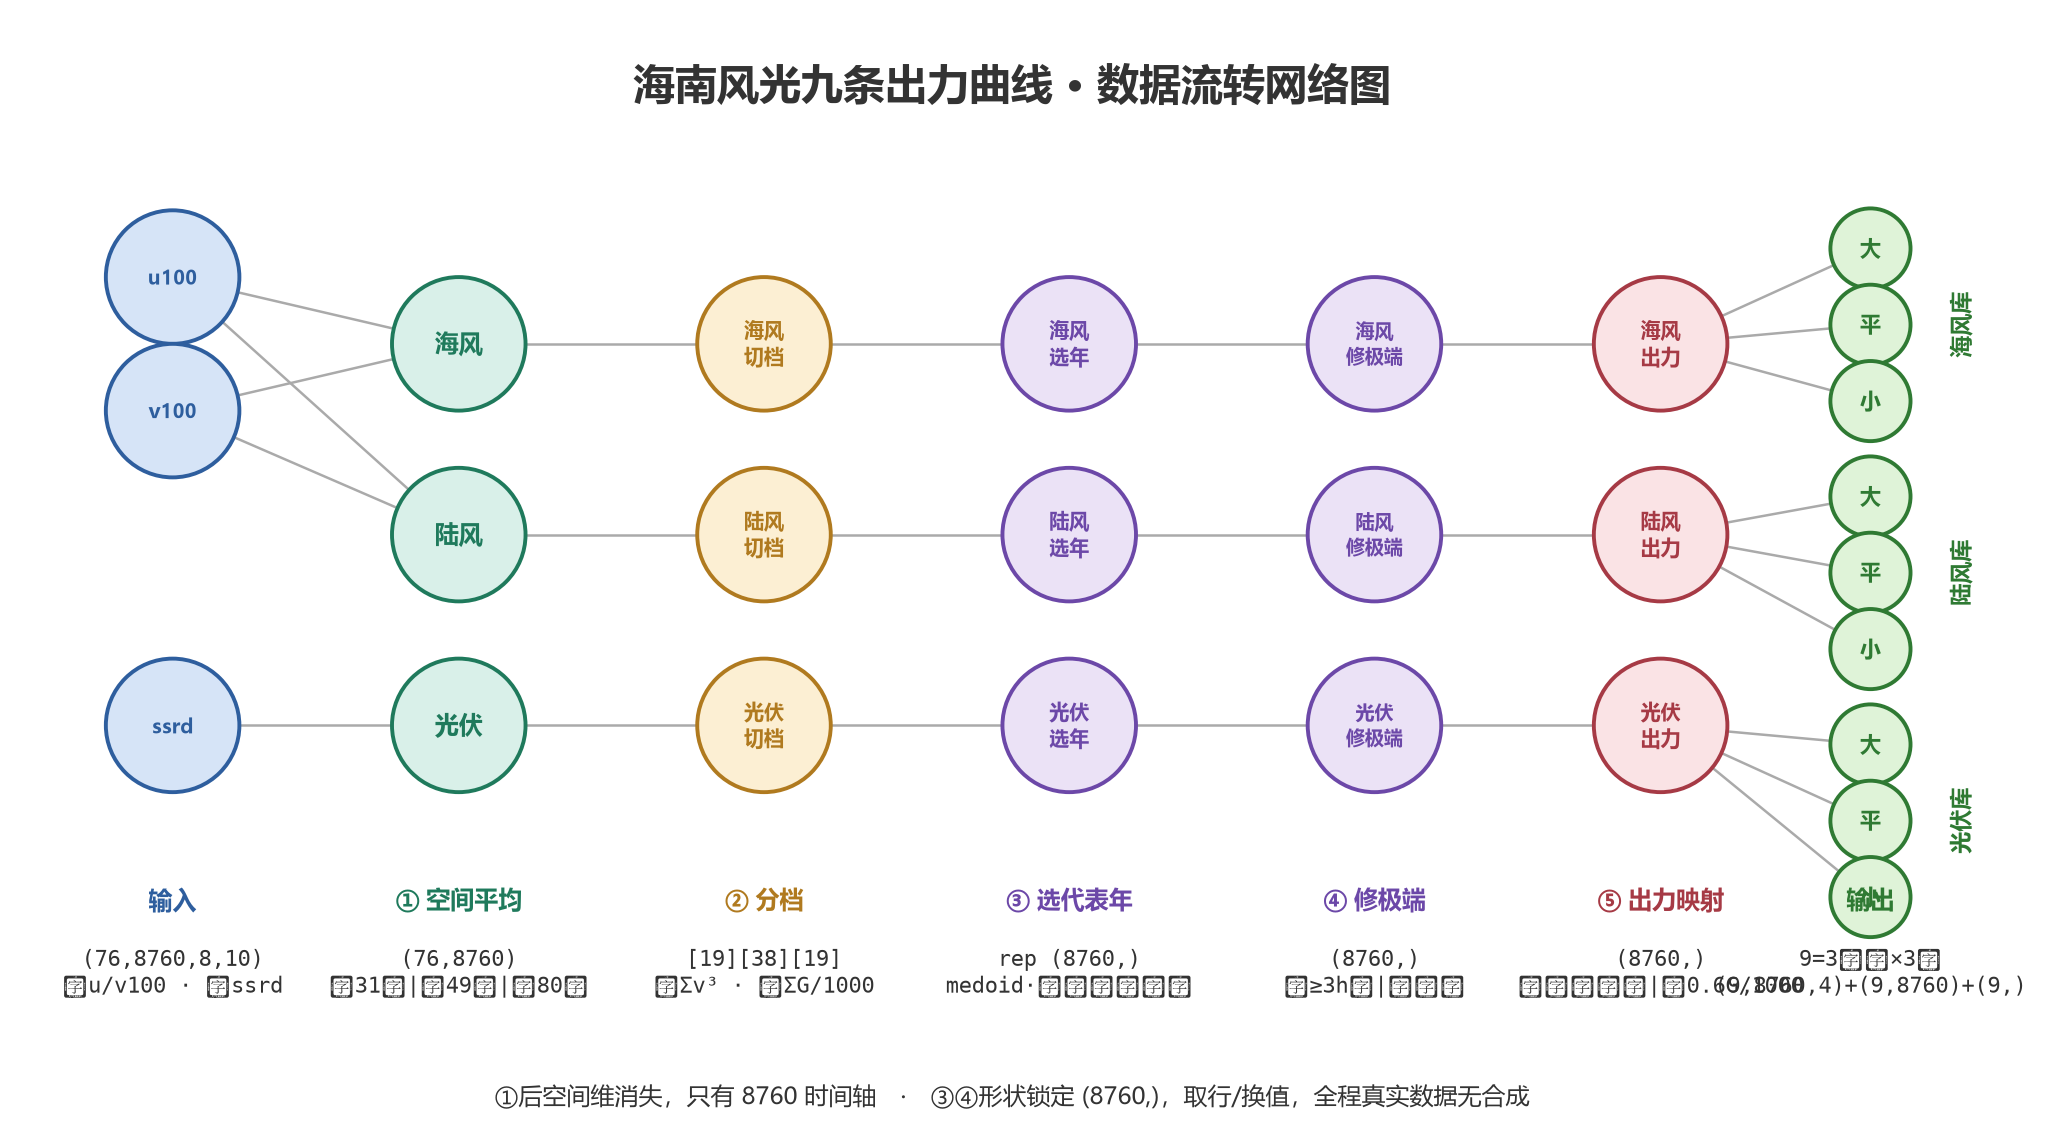
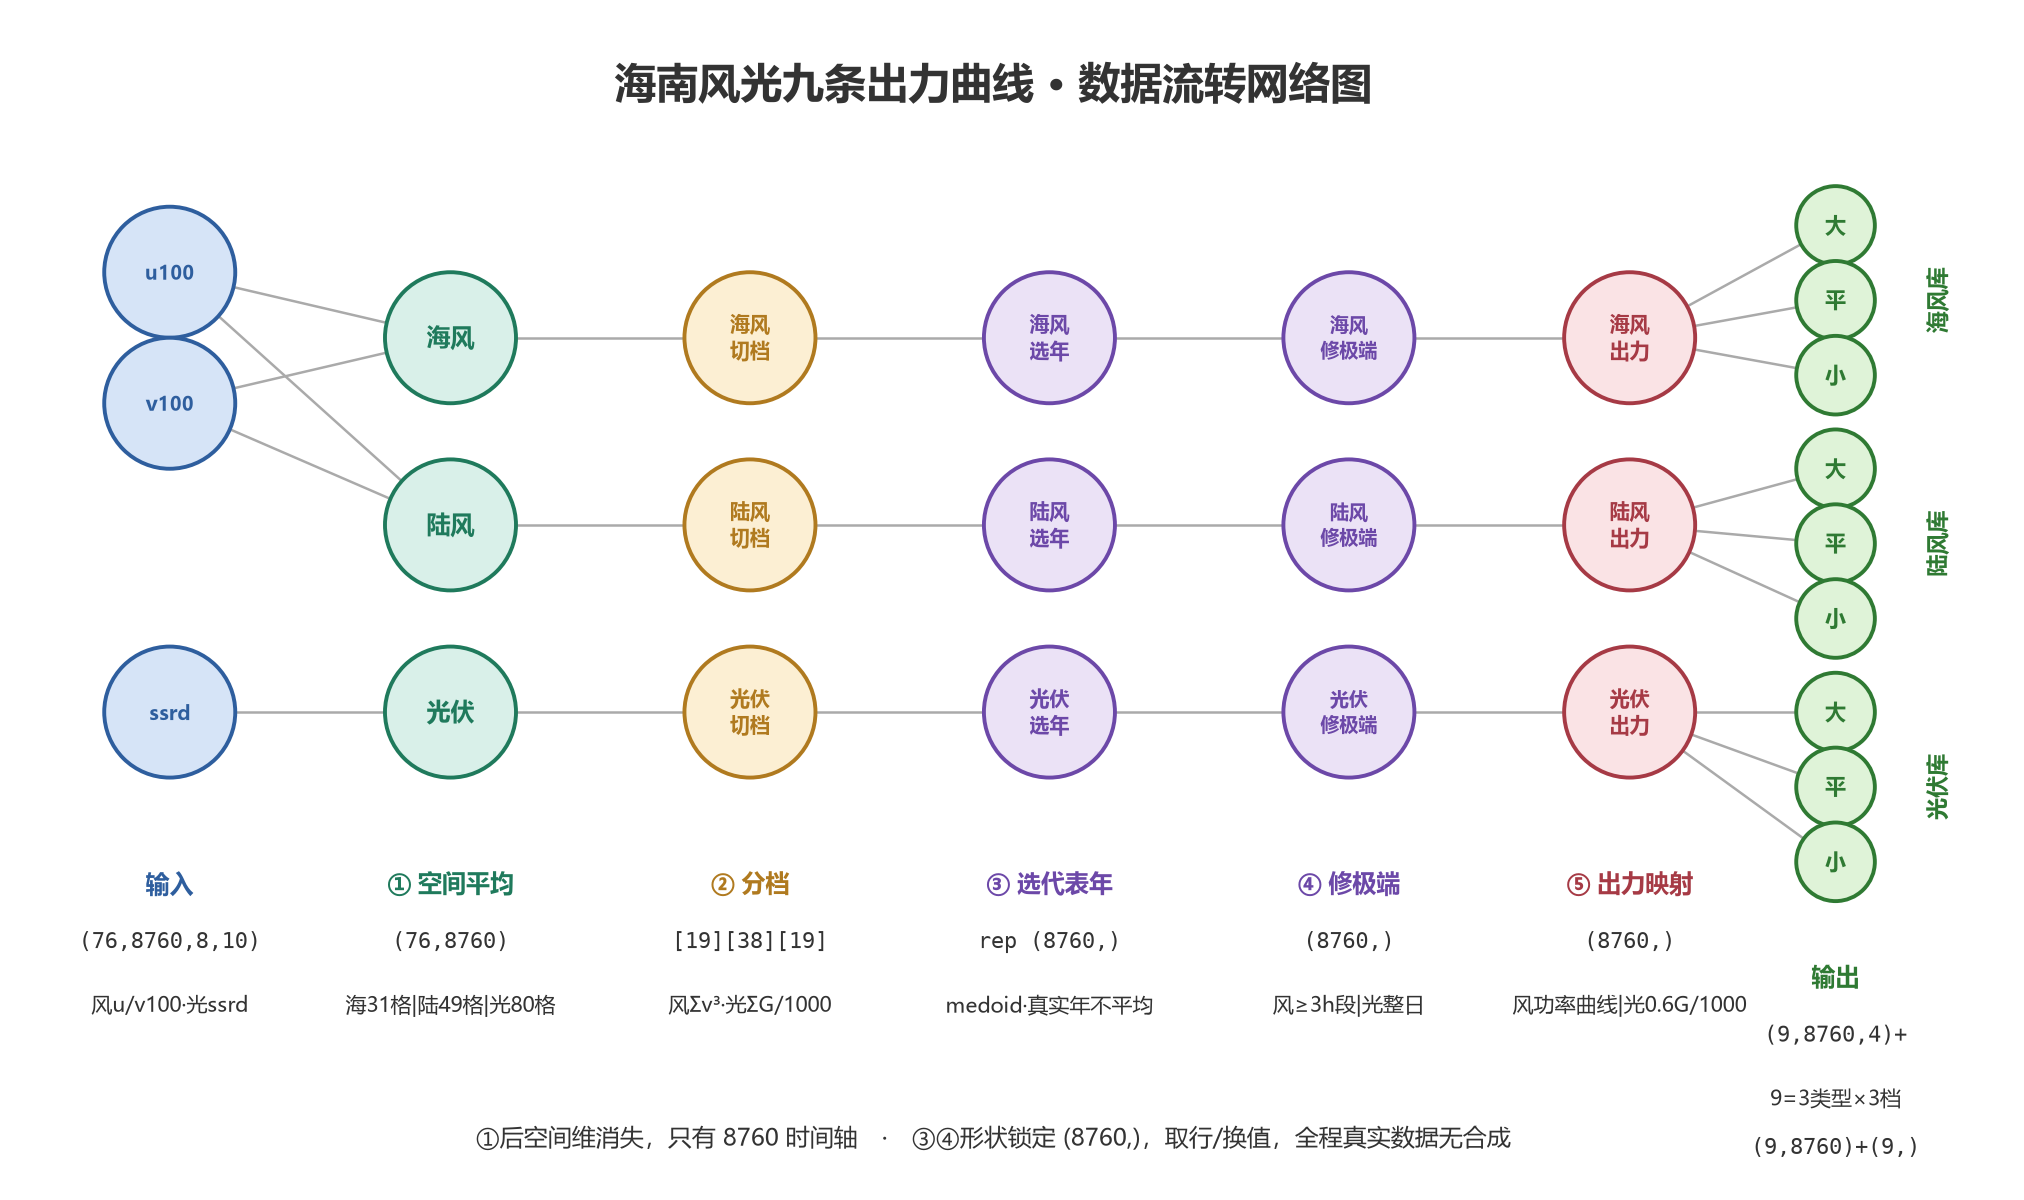
fix: 修复流程图缺字与重叠；新增 ALGO_DESIGN.md 固化流程图+维度流转描述
等宽字体不含 CJK 导致注释缺字，拆分纯ASCII形状行；输出列说明下移避开圆圈。

diff --git a/make_dim_flow_figure.py b/make_dim_flow_figure.py
@@ -1,12 +1,14 @@
 #!/usr/bin/env python
 # -*- coding: utf-8 -*-
 """
-@Time    : 2026/10/22 16:40
+@Time    : 2026/10/22 17:20
 @Author  : weiyutao
 @File    : make_dim_flow_figure.py
 
 NN 结构图风格的维度流转图（参考 算法处理流程_单页.pptx 第2页）：
-每列一层操作，节点=圆圈，连线=数据流，列下标注输出形状。覆盖 算法流程图.png。
+列=操作层，节点=圆圈，连线=数据流，列下标注 层名/输出形状/注释。
+中文字符一律雅黑（等宽字体缺 CJK 字形会渲染为空），形状行纯 ASCII 才用等宽。
+覆盖 算法流程图.png。
 """
 from pathlib import Path
 
@@ -16,21 +18,21 @@ from matplotlib.patches import Circle
 plt.rcParams['font.family'] = ['Microsoft YaHei', 'SimHei']
 plt.rcParams['axes.unicode_minus'] = False
 
-C_IN = ('#D6E4F7', '#2E5E9E')     # 输入 蓝
-C_S1 = ('#D9F0E9', '#1F7A5C')     # 空间平均 青
-C_S2 = ('#FCEFD3', '#B07A1F')     # 分档 琥珀
-C_S34 = ('#EBE2F6', '#6C48A8')    # 选年/修极端 紫
-C_S5 = ('#FAE3E5', '#A63A45')     # 出力 玫红
-C_OUT = ('#DFF3D8', '#2F7A33')    # 输出 绿
+C_IN = ('#D6E4F7', '#2E5E9E')
+C_S1 = ('#D9F0E9', '#1F7A5C')
+C_S2 = ('#FCEFD3', '#B07A1F')
+C_S34 = ('#EBE2F6', '#6C48A8')
+C_S5 = ('#FAE3E5', '#A63A45')
+C_OUT = ('#DFF3D8', '#2F7A33')
 INK, LINE = '#333333', '#AAAAAA'
 
-fig, ax = plt.subplots(figsize=(12.8, 7.4), dpi=200)
-ax.set_xlim(0, 104)
-ax.set_ylim(58, 0)
+fig, ax = plt.subplots(figsize=(12.8, 8.6), dpi=200)
+ax.set_xlim(0, 106)
+ax.set_ylim(62, 0)
 ax.set_aspect('equal')
 ax.axis('off')
 
-ROWS = (17, 27, 37)          # 海风行 / 陆风行 / 光伏行
+ROWS = (17, 27, 37)
 XIN, X1, X2, X3, X4, X5, XO = 8, 23, 39, 55, 71, 86, 97
 R, RO = 3.5, 2.1
 
@@ -45,17 +47,18 @@ def link(x0, y0, x1, y1):
     ax.plot([x0, x1], [y0, y1], color=LINE, lw=0.9, zorder=1)
 
 
-def caption(x, lines, color):
-    ax.text(x, 45.5, lines[0], ha='center', va='top', fontsize=8.6,
+def caption(x, y0, name, shape, note, color):
+    """列标注：层名(粗体彩色) / 输出形状(纯ASCII等宽) / 注释(雅黑)。"""
+    ax.text(x, y0, name, ha='center', va='top', fontsize=8.8,
             color=color, fontweight='bold')
-    ax.text(x, 48.6, lines[1], ha='center', va='top', fontsize=8,
+    ax.text(x, y0 + 3.2, shape, ha='center', va='top', fontsize=8,
             color=INK, fontfamily='monospace')
+    ax.text(x, y0 + 6.6, note, ha='center', va='top', fontsize=7.6, color=INK)
 
 
 ax.text(52, 3.5, '海南风光九条出力曲线 · 数据流转网络图', ha='center', va='center',
         fontsize=15, fontweight='bold', color=INK)
 
-# ── 连线（先画线，节点后画盖住线头）──
 sea, land, sol = ROWS
 u100, v100, ssrd = (XIN, 13.5), (XIN, 20.5), (XIN, 37)
 for src in (u100, v100):
@@ -65,37 +68,36 @@ link(*ssrd, X1, sol)
 for x0, x1 in ((X1, X2), (X2, X3), (X3, X4), (X4, X5)):
     for y in ROWS:
         link(x0, y, x1, y)
-groups = ((sea, (12, 16, 20)), (land, (25, 29, 33)), (sol, (38, 42, 46)))
+groups = ((sea, (11, 15, 19)), (land, (24, 28, 32)), (sol, (37, 41, 45)))
 for row_y, outs in groups:
     for oy in outs:
         link(X5, row_y, XO, oy)
 
-# ── 节点 ──
 node(*u100, 'u100', C_IN); node(*v100, 'v100', C_IN); node(*ssrd, 'ssrd', C_IN)
-labels1 = ('海风', '陆风', '光伏')
-for y, t in zip(ROWS, labels1):
+for y, t in zip(ROWS, ('海风', '陆风', '光伏')):
     node(X1, y, t, C_S1, fs=8.6)
     node(X2, y, f'{t}\n切档', C_S2)
     node(X3, y, f'{t}\n选年', C_S34)
     node(X4, y, f'{t}\n修极端', C_S34, fs=6.8)
     node(X5, y, f'{t}\n出力', C_S5)
-for row_y, outs in groups:
+for outs in (g[1] for g in groups):
     for oy, t in zip(outs, ('大', '平', '小')):
         node(XO, oy, t, C_OUT, r=RO, fs=7.4)
-for gy, name in ((16, '海风库'), (29, '陆风库'), (42, '光伏库')):
-    ax.text(101.8, gy, name, rotation=90, ha='center', va='center',
+for gy, name in ((15, '海风库'), (28, '陆风库'), (41, '光伏库')):
+    ax.text(102.5, gy, name, rotation=90, ha='center', va='center',
             fontsize=8, color=C_OUT[1], fontweight='bold')
 
-# ── 列标注：层名 + 输出形状 ──
-caption(XIN, ('输入', '(76,8760,8,10)\n风u/v100 · 光ssrd'), C_IN[1])
-caption(X1, ('① 空间平均', '(76,8760)\n海31格|陆49格|光80格'), C_S1[1])
-caption(X2, ('② 分档', '[19][38][19]\n风Σv³ · 光ΣG/1000'), C_S2[1])
-caption(X3, ('③ 选代表年', 'rep (8760,)\nmedoid·真实年不平均'), C_S34[1])
-caption(X4, ('④ 修极端', '(8760,)\n风≥3h段|光整日'), C_S34[1])
-caption(X5, ('⑤ 出力映射', '(8760,)\n风功率曲线|光0.6G/1000'), C_S5[1])
-caption(XO, ('输出', '9=3类型×3档\n(9,8760,4)+(9,8760)+(9,)'), C_OUT[1])
+caption(XIN, 45.5, '输入', '(76,8760,8,10)', '风u/v100·光ssrd', C_IN[1])
+caption(X1, 45.5, '① 空间平均', '(76,8760)', '海31格|陆49格|光80格', C_S1[1])
+caption(X2, 45.5, '② 分档', '[19][38][19]', '风Σv³·光ΣG/1000', C_S2[1])
+caption(X3, 45.5, '③ 选代表年', 'rep (8760,)', 'medoid·真实年不平均', C_S34[1])
+caption(X4, 45.5, '④ 修极端', '(8760,)', '风≥3h段|光整日', C_S34[1])
+caption(X5, 45.5, '⑤ 出力映射', '(8760,)', '风功率曲线|光0.6G/1000', C_S5[1])
+caption(XO, 50.5, '输出', '(9,8760,4)+', '9=3类型×3档', C_OUT[1])
+ax.text(XO, 59.7, '(9,8760)+(9,)', ha='center', va='top', fontsize=8,
+        color=INK, fontfamily='monospace')
 
-ax.text(52, 56.5, '①后空间维消失，只有 8760 时间轴　·　③④形状锁定 (8760,)，取行/换值，全程真实数据无合成',
+ax.text(52, 59.8, '①后空间维消失，只有 8760 时间轴　·　③④形状锁定 (8760,)，取行/换值，全程真实数据无合成',
         ha='center', va='center', fontsize=8.8, color=INK)
 
 out = Path(__file__).resolve().parent / '算法流程图.png'

diff --git a/ALGO_DESIGN.md b/ALGO_DESIGN.md
@@ -1,0 +1,69 @@
+# 算法设计 · 数据维度流转
+
+> 本文件是算法数据流转的固定说明：流程图 + 维度流转描述。
+> 算法变更时同步更新本文件（梳理规则见 skill `algo-dim-flow`）。
+
+## 流程图
+
+![算法流程图](算法流程图.png)
+
+列 = 操作层，节点 = 圆圈，连线 = 数据流；输出层展开 9 库（3 资源类型 × 3 资源档）。
+
+## 维度流转描述
+
+```text
+输入
+  u100    : (76, 8760, 8, 10)   float32, m/s     76=年份数(1950–2025), 8=纬度格数, 10=经度格数
+  v100    : (76, 8760, 8, 10)   float32, m/s     8×10=80个格点
+  ssrd    : (76, 8760, 8, 10)   float32, J/m²    同样 80 格，逐时累积辐照
+  mask_sea  : (80,)  bool       31个True=海域格
+  mask_land : (80,)  bool       49个True=陆域格
+
+stage 1 空间平均
+  speed = hypot(u100, v100)          (76, 8760, 8, 10)
+  展平空间维 (8,10)→80               (76, 8760, 80)
+  海风 = 海格平均(dim=80)            (76, 8760)
+  陆风 = 陆格平均(dim=80)            (76, 8760)
+  光伏 = 全格平均(dim=80) ÷ 3600     (76, 8760)     J/m² → W/m²
+
+stage 2 分档（三条各自做）
+  年指标 = 归约(dim=8760) → 每年一个标量 → (76,)
+      风: (1/8760)·Σ_t (v_t)³     先立方再求和——风机功率∝v³，按能量权重计年资源
+      光: Σ_t G_t / 1000          直接求和——光伏功率∝G，/1000 仅量纲缩放
+  76 年按指标排序切三档 → 索引[19] [38] [19]   19/38/19 = 大/平均/小档年份数
+
+stage 3 选代表年（9个库各自做；库 = 3资源类型 × 3资源档）
+  gather 按档取行                    (n, 8760)      n∈{19,38,19}=该档年份数
+  库内两两距离和 (n,) → argmin 选1行
+  骨架 rep                           (8760,)        某个真实年份整行原样取出，无任何加权平均
+
+stage 4 修极端（形状不变，替换部分值）
+  rep                                (8760,)        风: ≥3h连续段替换；光: 整日24点替换
+  修改标记                           (8760,)  bool  1=该小时值是移植换过的，0=代表年原装
+
+stage 5 出力（逐元素映射）
+  资源 → 出力                        (8760,)        风: 功率曲线(切入/额定/切出)；光: 0.6·G/1000
+  插前、插后各算一遍
+
+总输出（9 = 3资源类型(海风/陆风/光伏) × 3资源档(大/平均/小)）
+  资源与出力曲线    (9, 8760, 4)     4 = 插前资源/插后资源/插前出力/插后出力
+  修改标记          (9, 8760)  bool
+  利用小时          (9,)             每库 = 插后出力沿8760求和，读作"全年等效满发小时数"
+```
+
+两条不变式：
+
+- stage 1 之后空间维消失，所有操作都在 8760 时间轴上；
+- stage 3 取行、stage 4 换值，形状始终 `(8760,)`，全程无合成数据（真实年不平均、真实片段换真实片段）。
+
+## 步骤与代码模块对应
+
+| stage | 模块 |
+|---|---|
+| 网格校验（mask 来源） | refactor/curve_pipeline/grid_mask.py |
+| stage 1 空间平均 | refactor/curve_pipeline/nc_cache.py |
+| stage 2 分档 / stage 3 选代表年 | refactor/curve_pipeline/classify_cluster.py |
+| stage 4 风 | refactor/curve_pipeline/wind_insert.py |
+| stage 4 光 | refactor/curve_pipeline/solar_insert.py |
+| stage 5 出力映射 | refactor/curve_pipeline/power_curves.py |
+| 总输出与复核 | refactor/curve_pipeline/power_curves.py、verify_outputs.py |

diff --git a/README.md b/README.md
@@ -67,49 +67,7 @@ HTTP 客户端
 
 ![算法流程图](算法流程图.png)
 
-维度流转（每个张量给出完整形状，非显然轴当场解释；与上图逐层对应）：
-
-```text
-输入
-  u100    : (76, 8760, 8, 10)   float32, m/s     76=年份数(1950–2025), 8=纬度格数, 10=经度格数
-  v100    : (76, 8760, 8, 10)   float32, m/s     8×10=80个格点
-  ssrd    : (76, 8760, 8, 10)   float32, J/m²    同样 80 格，逐时累积辐照
-  mask_sea  : (80,)  bool       31个True=海域格
-  mask_land : (80,)  bool       49个True=陆域格
-
-stage 1 空间平均
-  speed = hypot(u100, v100)          (76, 8760, 8, 10)
-  展平空间维 (8,10)→80               (76, 8760, 80)
-  海风 = 海格平均(dim=80)            (76, 8760)
-  陆风 = 陆格平均(dim=80)            (76, 8760)
-  光伏 = 全格平均(dim=80) ÷ 3600     (76, 8760)     J/m² → W/m²
-
-stage 2 分档（三条各自做）
-  年指标 = 归约(dim=8760) → 每年一个标量 → (76,)
-      风: (1/8760)·Σ_t (v_t)³     先立方再求和——风机功率∝v³，按能量权重计年资源
-      光: Σ_t G_t / 1000          直接求和——光伏功率∝G，/1000 仅量纲缩放
-  76 年按指标排序切三档 → 索引[19] [38] [19]   19/38/19 = 大/平均/小档年份数
-
-stage 3 选代表年（9个库各自做；库 = 3资源类型 × 3资源档）
-  gather 按档取行                    (n, 8760)      n∈{19,38,19}=该档年份数
-  库内两两距离和 (n,) → argmin 选1行
-  骨架 rep                           (8760,)        某个真实年份整行原样取出，无任何加权平均
-
-stage 4 修极端（形状不变，替换部分值）
-  rep                                (8760,)        风: ≥3h连续段替换；光: 整日24点替换
-  修改标记                           (8760,)  bool  1=该小时值是移植换过的，0=代表年原装
-
-stage 5 出力（逐元素映射）
-  资源 → 出力                        (8760,)        风: 功率曲线(切入/额定/切出)；光: 0.6·G/1000
-  插前、插后各算一遍
-
-总输出（9 = 3资源类型(海风/陆风/光伏) × 3资源档(大/平均/小)）
-  资源与出力曲线    (9, 8760, 4)     4 = 插前资源/插后资源/插前出力/插后出力
-  修改标记          (9, 8760)  bool
-  利用小时          (9,)             每库 = 插后出力沿8760求和，读作"全年等效满发小时数"
-```
-
-两条不变式：stage 1 之后空间维消失，所有操作都在 8760 时间轴上；stage 3 取行、stage 4 换值，形状始终 `(8760,)`，全程无合成数据。
+维度流转的完整描述（每个张量完整形状、非显然轴当场解释、与上图逐层对应）固定在 [ALGO_DESIGN.md](ALGO_DESIGN.md)。
 
 各步骤与代码模块的对应见下表：
 

diff --git a/CLAUDE.md b/CLAUDE.md
@@ -7,6 +7,7 @@
 
 - 通用项目规则在 `.claude/skills/`（19 条），改任何文件前先读相关规则
 - `DESIGN.md`：本项目唯一设计与规划文件（设计/规划/进度/决策）
+- `ALGO_DESIGN.md`：算法数据维度流转的固定说明（流程图+流程描述），算法变更时同步
 - `README.md`：稳定的项目说明，收口时按 `readme-structure` 定稿
 
 ## 环境约定
